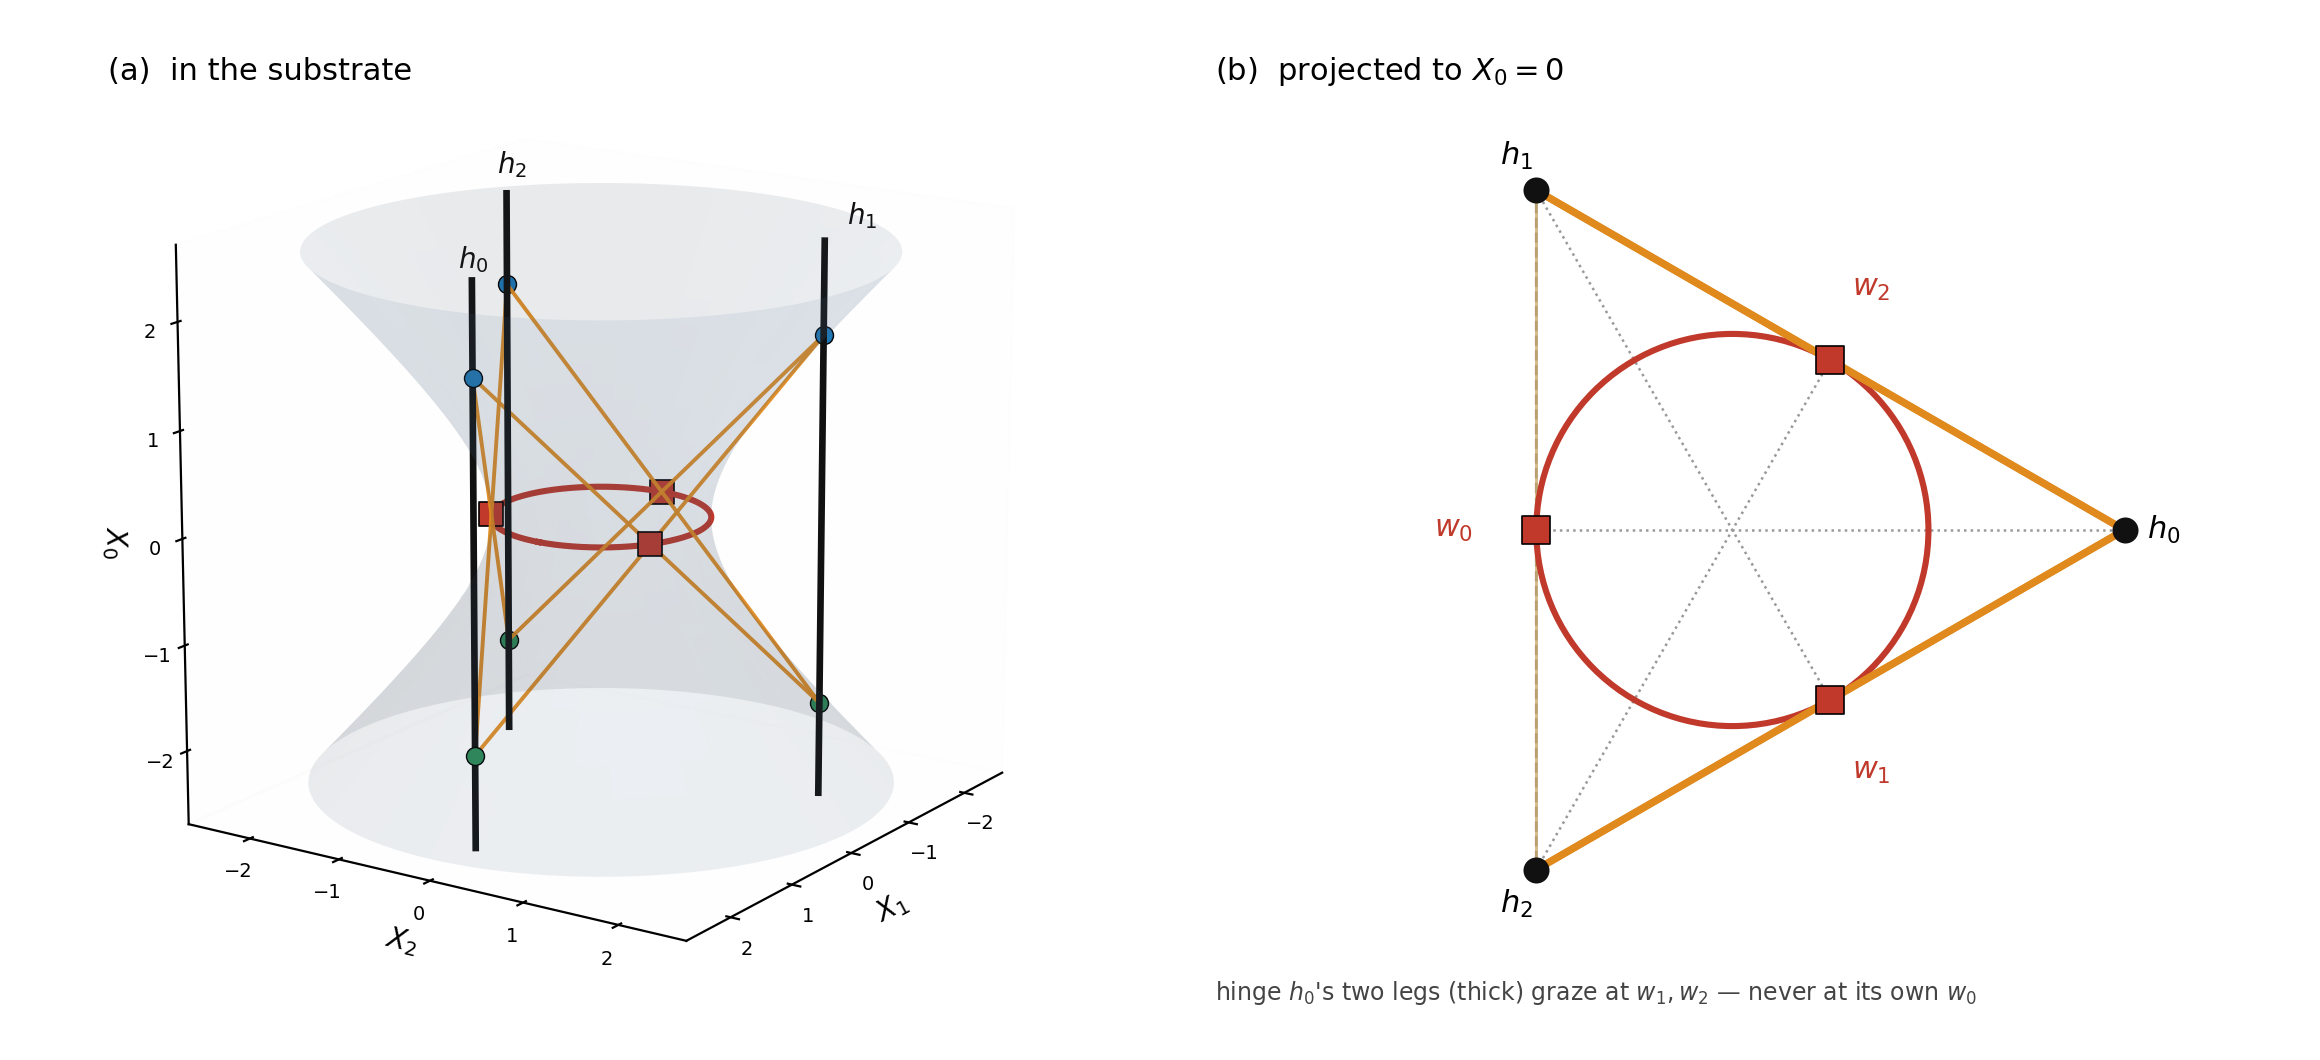
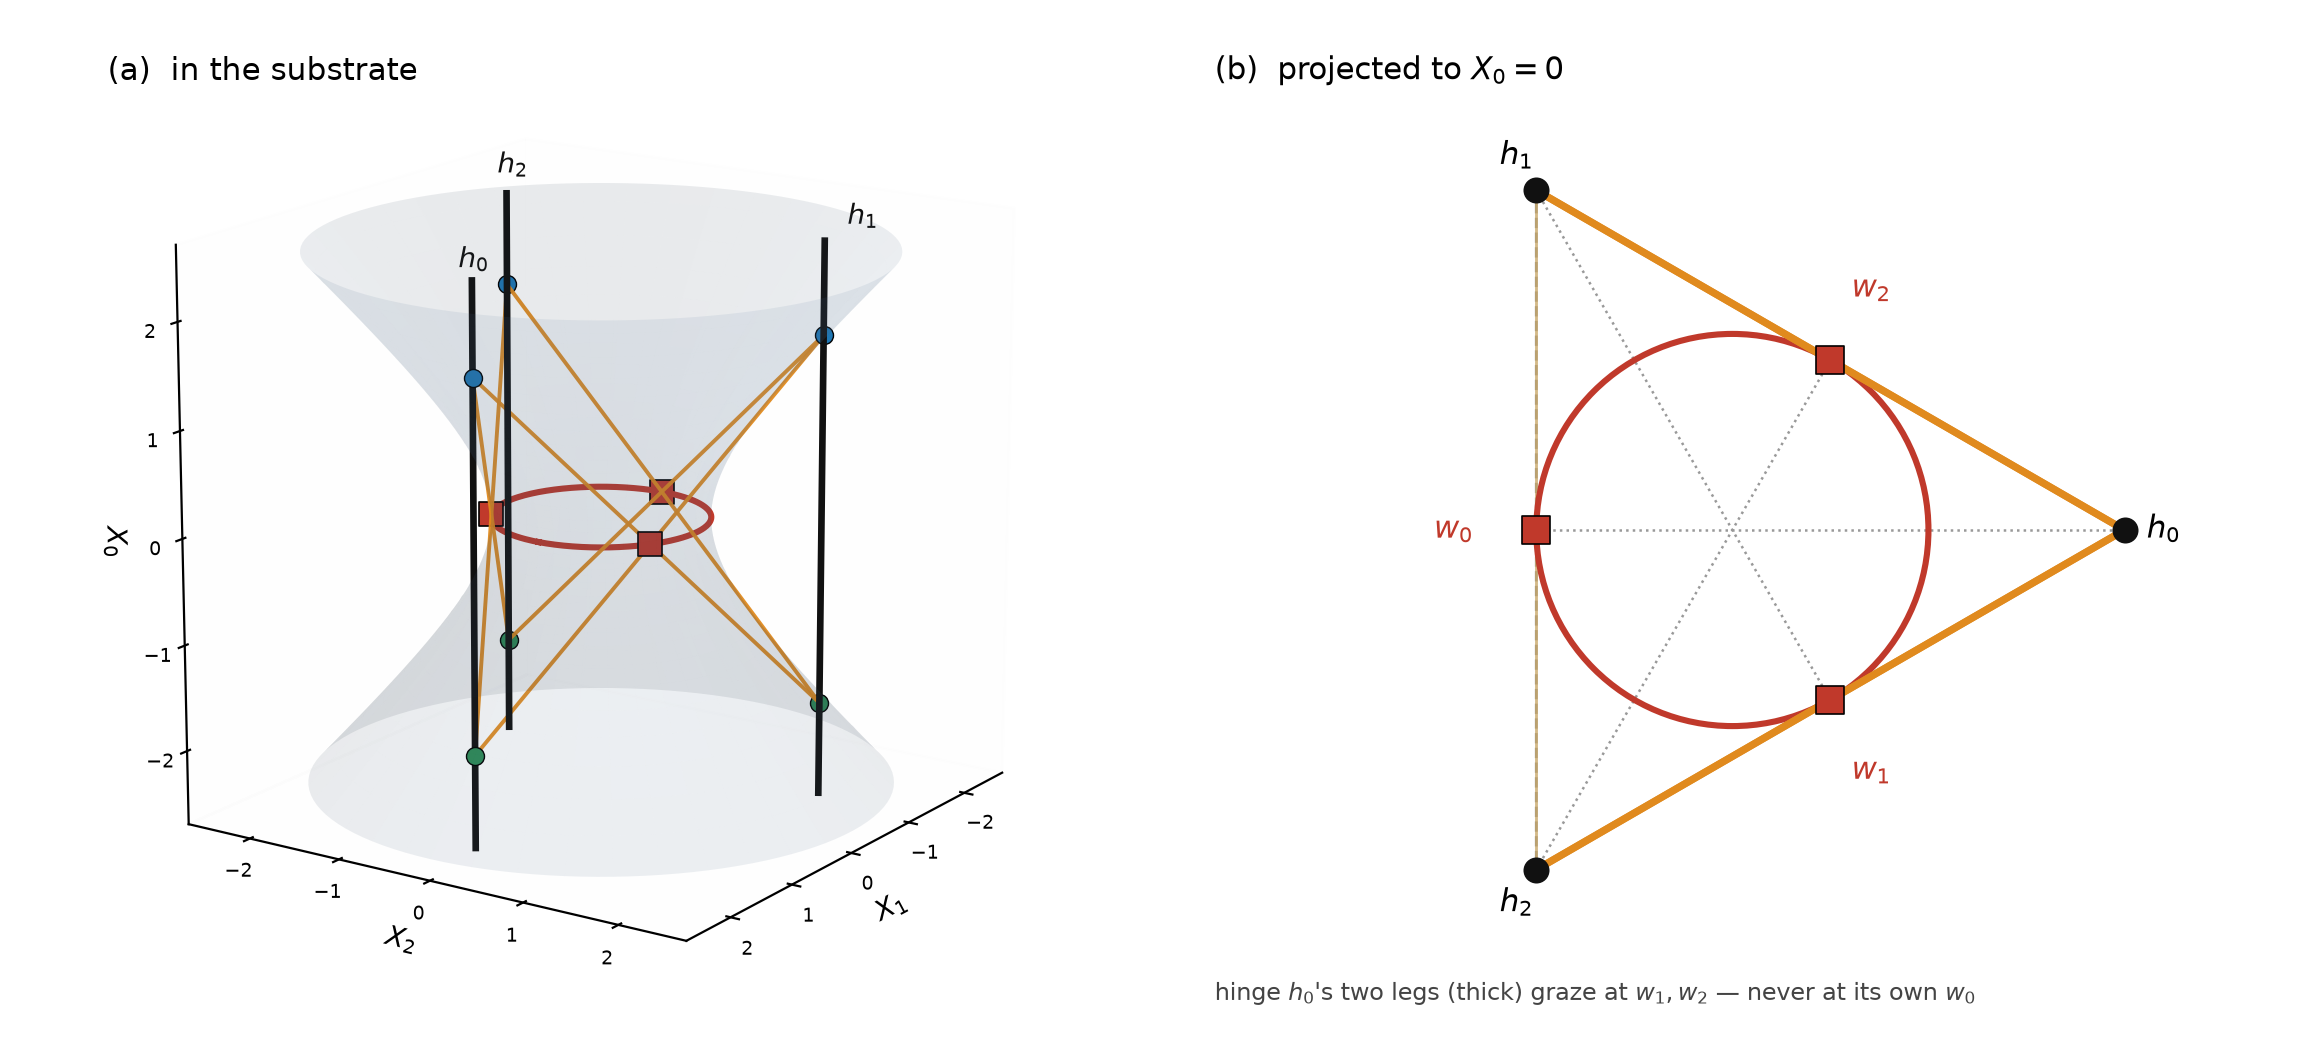
r3996 — the parity seed borrowed the world's state, and merging emptied it
59's correction landed and I ran the three measurements.  This is the first.

L256/B1's seeded check flipped the band parity and read band_violations() on
the LIVE tree, which measures origin/main..HEAD -- this line's UNMERGED commits.
The moment this line's work merges that set is empty, the flip has nothing to
act on, and the seed reports "0 out of band" and fails.

Measured: it failed in the first suite run after PR #30 merged and the branch
was restarted from main, taking L259/D1 and L261/A1 down with it because both
shell out to it.  One root cause, three receipts -- the sixth dependency edge in
this debt.

A SEED THAT BORROWS THE WORLD'S STATE STOPS WORKING WHEN THE WORLD CHANGES
STATE, and "this line is mid-span" is a state, not a property.  That is
L259/D1's own title in a new disguise -- pinned to the present, where the
present is "we have not merged yet" -- and the same lesson as L556/R1's and
L270/V1's fixtures: build the subject, do not borrow it.

The seed now builds a two-commit repository with known revision ids, one EVEN
and one ODD, and exercises the real band_violations(root=) against it.  The flip
must MOVE which commit is flagged -- r4001 in band, r4000 when flipped -- which
is a stronger claim than "some non-empty set", and it can be exercised at any
point in the span.  The live gate is still read, and what is asserted of it is
that it REPORTS its band: after a merge, an empty violation set is the correct
answer rather than an unrun one.
[…]

diff --git a/receipts/L256_the_band_taken/B1_a_finding_that_routes_its_own_remedy_and_then_recurs_is_not_waiting.py b/receipts/L256_the_band_taken/B1_a_finding_that_routes_its_own_remedy_and_then_recurs_is_not_waiting.py
@@ -223,19 +223,64 @@ def main():
     v = C.band_violations()
     check(f'⓸ᵇ and this tree is in band: {len(v) if v is not None else "no upstream"} violation(s)',
           v == [])
-    # ** SEEDED: flip the parity and every commit of this line must fail the band **
+    # ** ⛔⛭⛭ THE SEED BUILDS ITS OWN REPOSITORY NOW, AND IT HAD TO (r3996). **  It used to flip the
+    # ** parity and read `band_violations()` on the LIVE tree -- which measures `origin/main..HEAD`,
+    # ** this line's UNMERGED commits.  *** The moment this line's work merges, that set is EMPTY,
+    # ** the flip has nothing to act on, and the seed reports `0 out of band` and fails. ***
+    # **   ⌷ Measured: it failed in the first suite run after `PR #30` merged and the branch was
+    # **     restarted from `main` -- with `L259/D1` and `L261/A1` failing too, because both shell
+    # **     out to this file.  ** One root cause, three receipts. **
+    # **   ⇒ *** A SEED THAT BORROWS THE WORLD'S STATE STOPS WORKING WHEN THE WORLD CHANGES STATE,
+    # **       and "this line is mid-span" is a state, not a property. ***  That is `L259/D1`'s own
+    # **       title in a new disguise -- pinned to the present, where the present is "we have not
+    # **       merged yet" -- and it is the same lesson as `L556/R1`'s and `L270/V1`'s fixtures:
+    # **       ** build the subject, do not borrow it. **
+    # ** ⌗ `band_violations(root=)` and the parity are the only inputs, so a two-commit repository
+    # **   with known revision ids exercises the real function on a subject this file constructs:
+    # **   one EVEN id (in band for this line) and one ODD (out of band).  The flip must then move
+    # **   exactly which of the two is flagged -- a stronger claim than "some non-empty set".
     keep = C.PARITY
+    _tmp = tempfile.mkdtemp(prefix='L256.band.')
     try:
-        C.PARITY = 1
-        seeded = C.band_violations()
+        def _git(*a):
+            return subprocess.run(['git', '-C', _tmp] + list(a), capture_output=True, text=True,
+                                  errors='replace')
+        _git('init', '-q', '-b', 'main')
+        _git('config', 'user.email', 'seed@local')
+        _git('config', 'user.name', 'seed')
+        open(os.path.join(_tmp, 'f'), 'w').write('0\n')
+        _git('add', '-A'); _git('commit', '-q', '-m', 'base, no revision id')
+        _git('branch', '-f', 'origin/main')          # the UPSTREAM ref `band_violations` reads
+        for _rev in ('r4000', 'r4001'):              # one EVEN, one ODD
+            open(os.path.join(_tmp, 'f'), 'a').write(_rev + '\n')
+            _git('add', '-A'); _git('commit', '-q', '-m', f'{_rev} — seeded commit')
+        assert len(_git('log', '--format=%h', 'origin/main..HEAD').stdout.split()) == 2, (
+            'the seeded repository must carry exactly the two unmerged commits, or the flip below '
+            'is measuring nothing -- which is the defect this repair exists to end')
+        C.PARITY = 0                                  # this line's half: EVEN
+        _in_band = C.band_violations(root=_tmp)
+        C.PARITY = 1                                  # flipped
+        seeded = C.band_violations(root=_tmp)
         buf = io.StringIO()
         with contextlib.redirect_stdout(buf):
             rc = C.check_band()
     finally:
         C.PARITY = keep
-    check(f'⓸ᶜ SEEDED: with the parity flipped, {len(seeded)} of this line\'s commits are out of '
-          f'band and the check exits {rc} naming them -- so a green result is a measurement and '
-          'not an empty set', rc == 1 and len(seeded) >= 1 and '[FAIL]' in buf.getvalue())
+        shutil.rmtree(_tmp, ignore_errors=True)
+    check(f'⓸ᶜ¹ on a repository this file BUILDS -- two unmerged commits, r4000 EVEN and r4001 ODD '
+          f'-- the even band flags {[v[1] for v in _in_band]} and the flipped band flags '
+          f'{[v[1] for v in seeded]}: the flip MOVES which commit is out of band, rather than '
+          f'merely returning a non-empty set',
+          [v[1] for v in _in_band] == ['r4001'] and [v[1] for v in seeded] == ['r4000'])
+    # ⌗ and `check_band()` still reads the LIVE tree, which is right: it is the gate as it runs.
+    #   With this line merged and in band it exits 0, and after the merge that is the TRUE answer --
+    #   so what is asserted of it is that it REPORTS, not that it fails.  *The firing behaviour is
+    #   asserted above, on the built subject, where it can be exercised at any time.*
+    check(f'⓸ᶜ SEEDED: the flip is exercised on a built subject rather than on whatever unmerged '
+          f'work this line happens to be carrying; the live gate exits {rc} and names its band, '
+          f'and after a merge an empty violation set is the CORRECT answer rather than an unrun one',
+          rc in (0, 1) and ('EVEN' in buf.getvalue() or 'ODD' in buf.getvalue()
+                            or 'NO HALF' in buf.getvalue()))
     check('⓸ᵈ and the parity is RESTORED -- verified, not trusted to the `finally`', C.PARITY == 0)
     # ⌗ and the same repair as `L251/N1`'s ⓹ᵈ (r3964): the claim is that exceptions are NAMED
     #   rather than expressed as a cutoff, and it was tested as `== {'r3125'}`.  Two more have been
